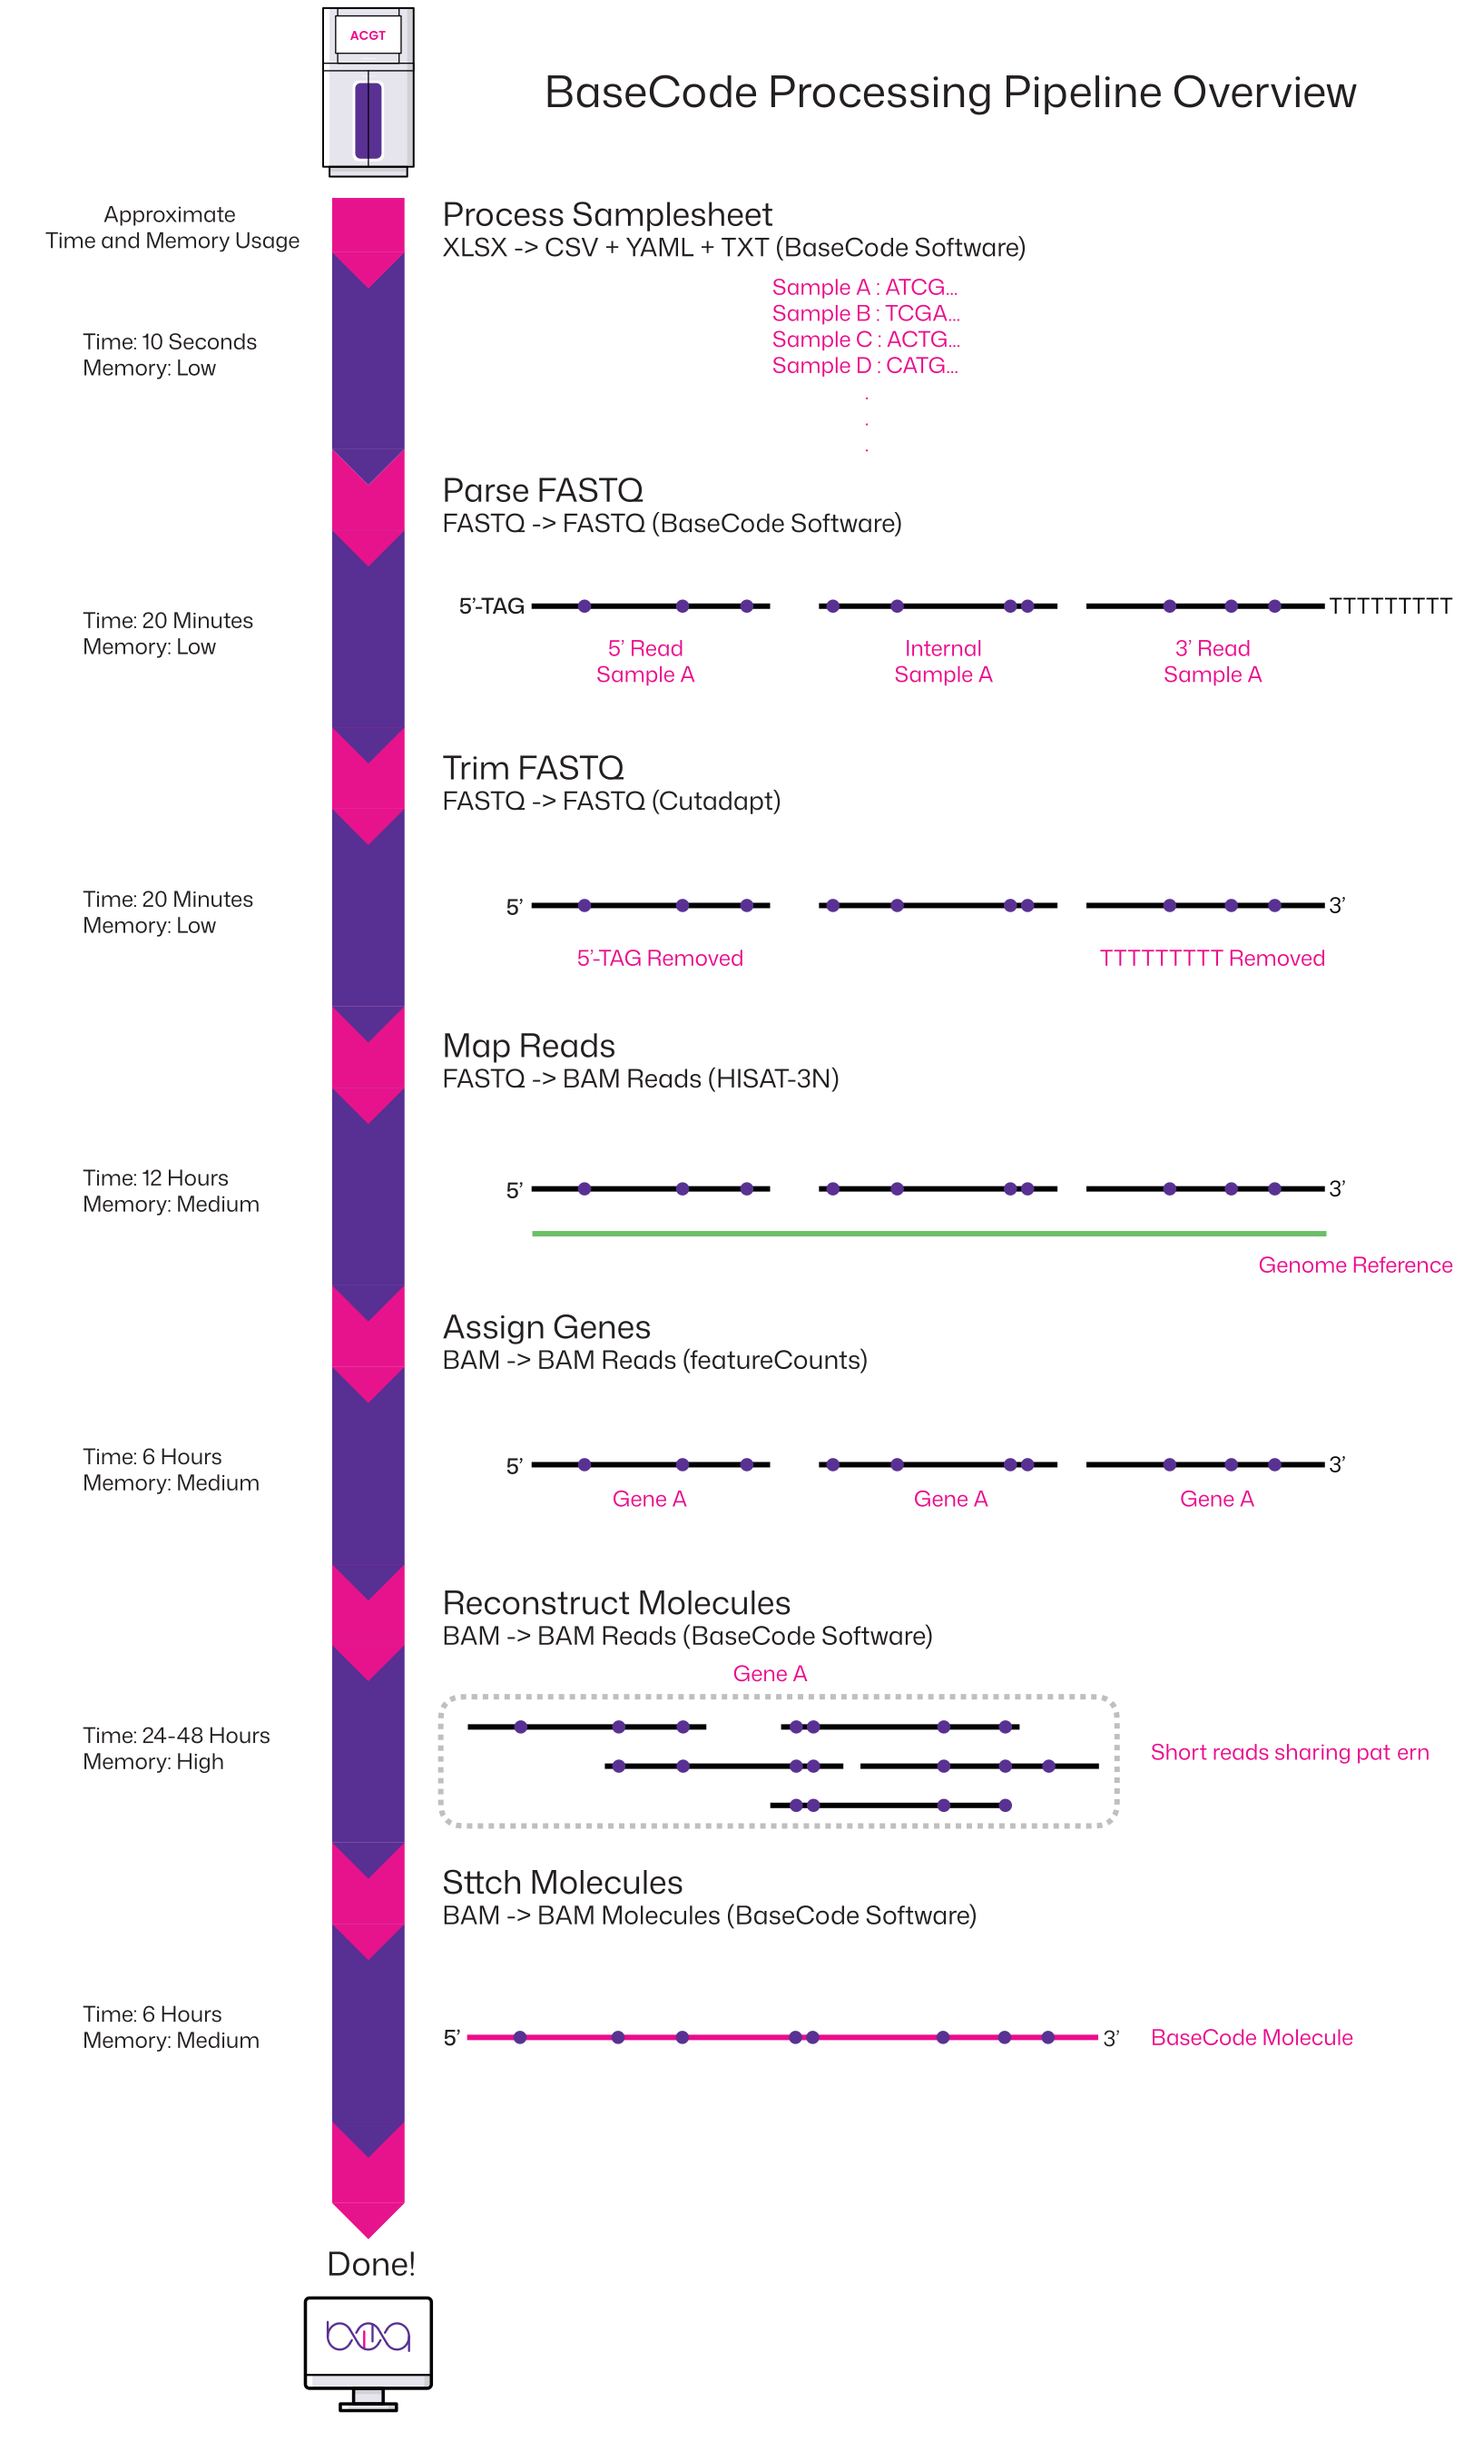
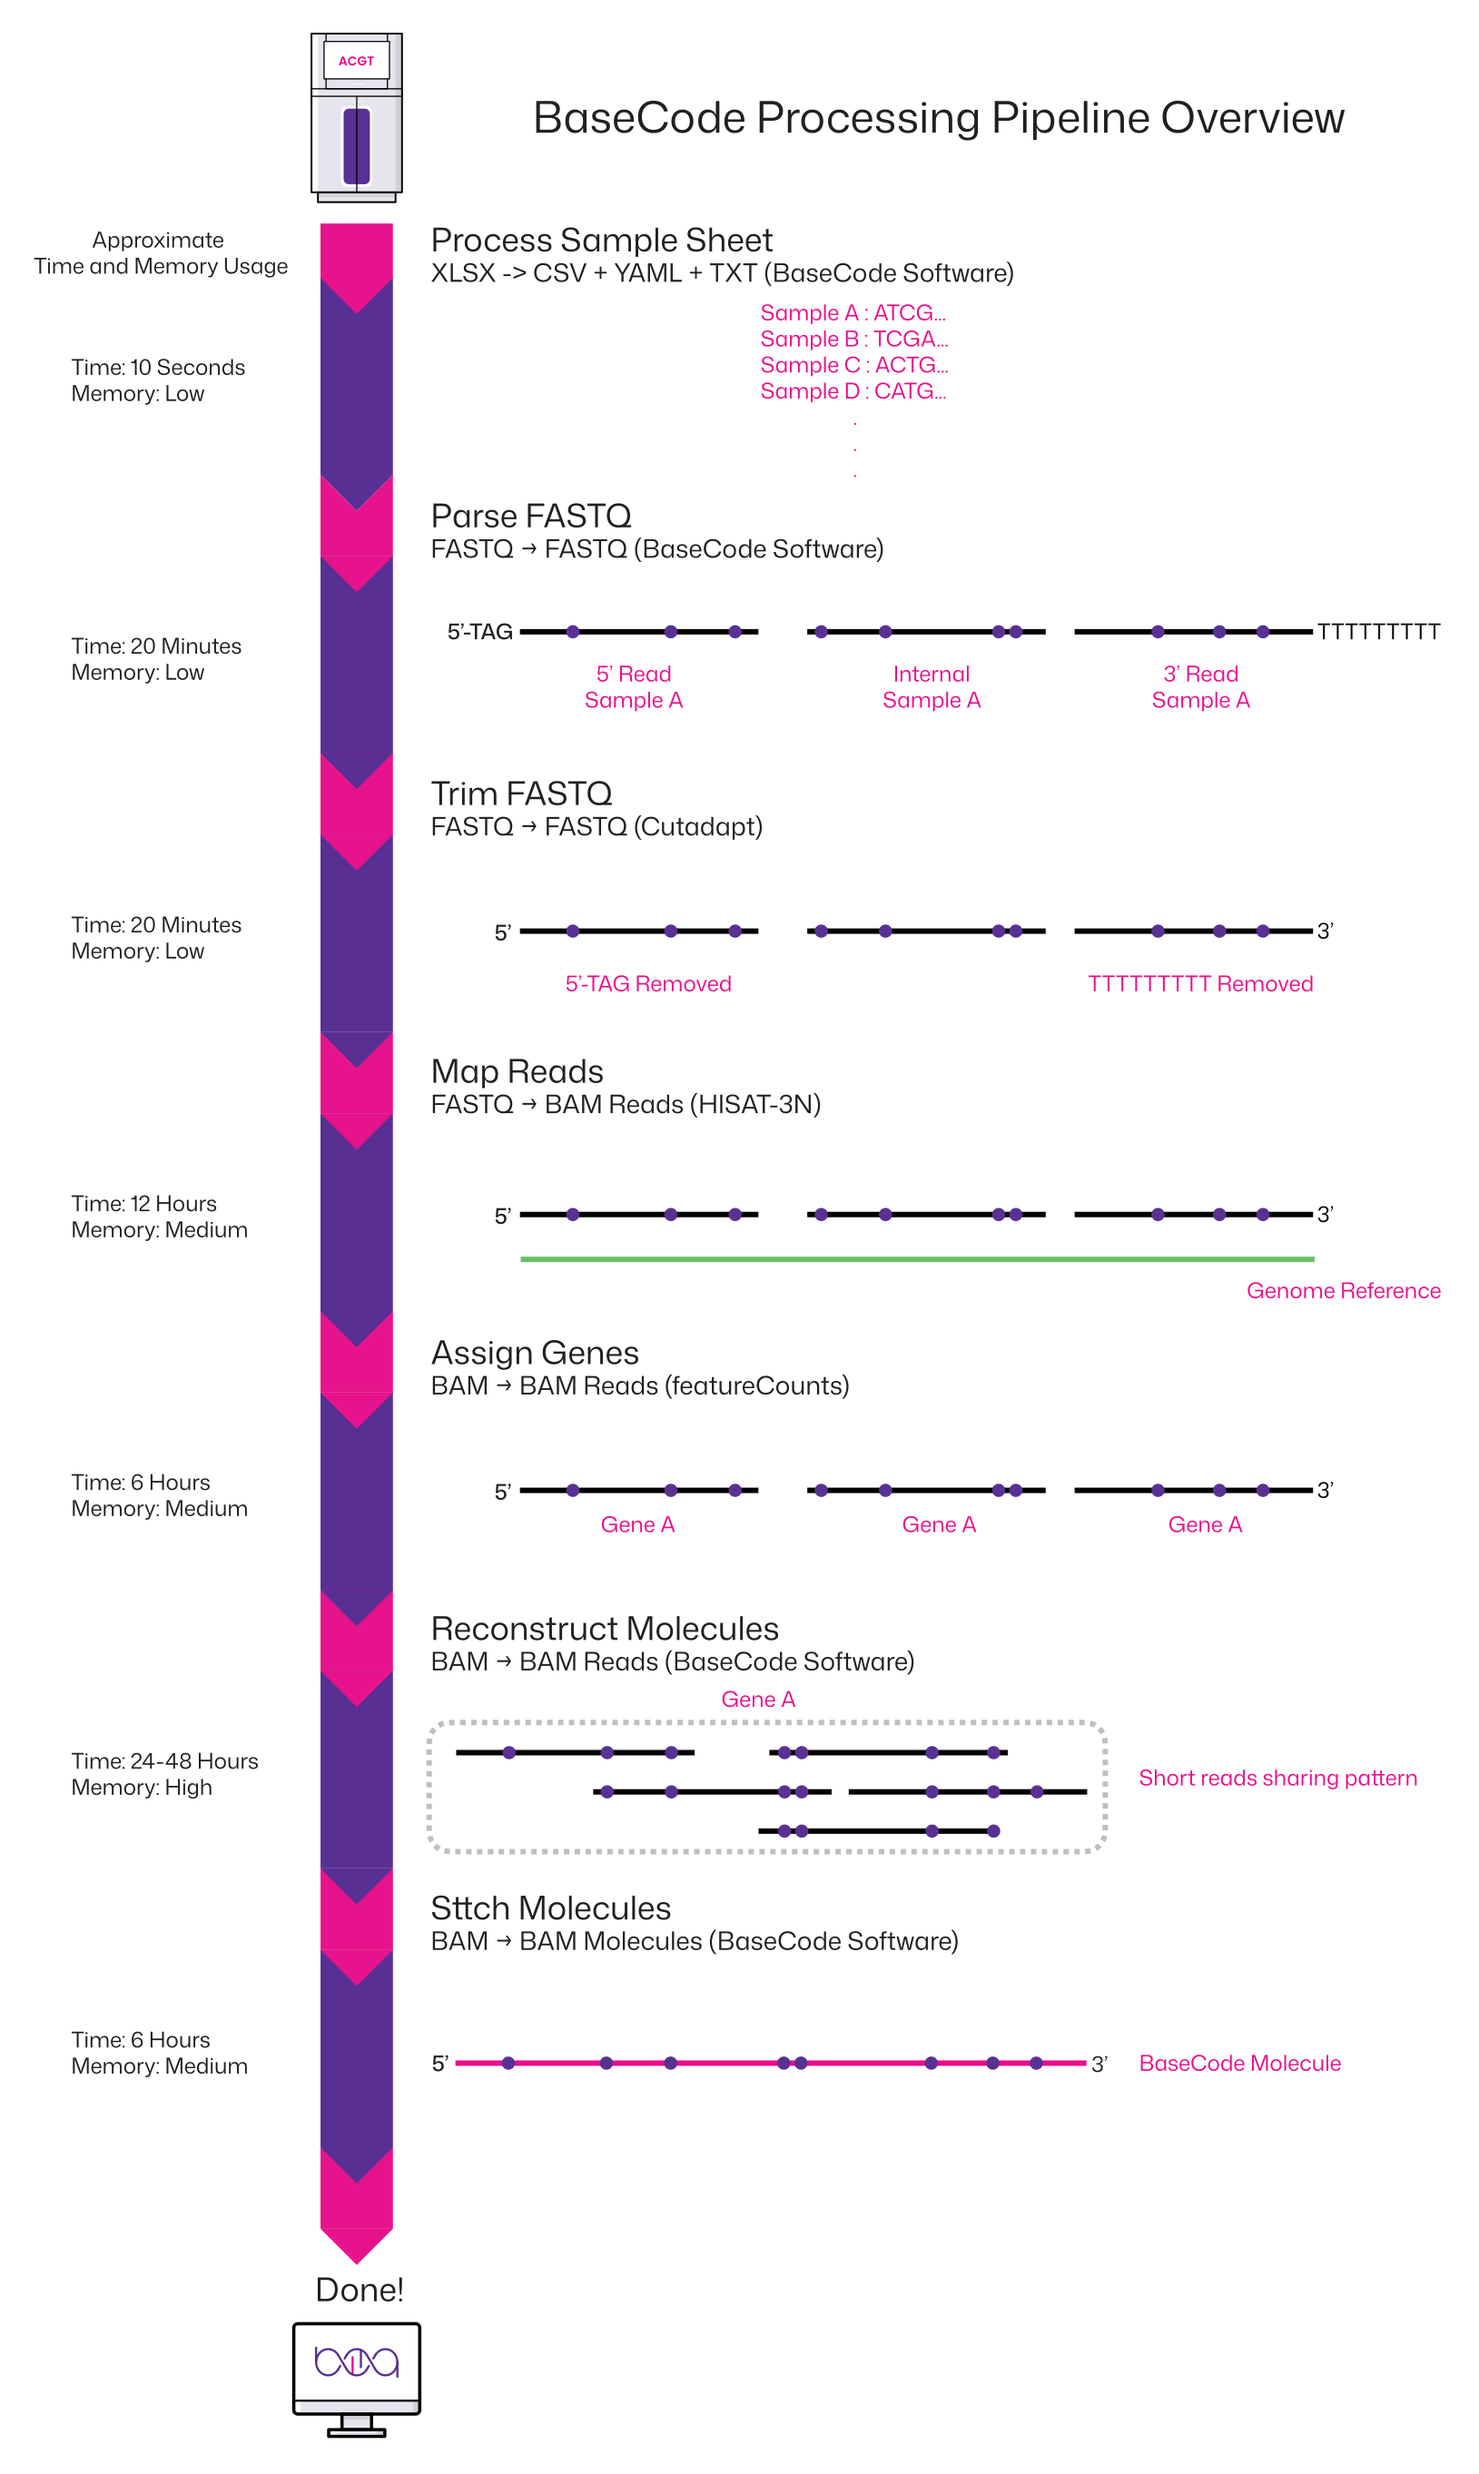
New visuals

diff --git a/docs/index.md b/docs/index.md
@@ -5,19 +5,32 @@ The final output of the BaseCode Processing Pipeline can be used for further dow
 
 ## <span style="color:#583092">BaseCode Processing Pipeline</span>
 The main steps of the BaseCode Processing Pipeline:
-1.	Process Sample Sheet
+1.	<b>Process Sample Sheet</b>
+
 The specified sample sheet is analyzed together with the input FASTQ files to determine which samples are to be processed and their associated sample indexes.
-2.	Parse FASTQ
+
+2.	<b>Parse FASTQ</b>
+
 The each read in the input FASTQ file is processed to determine read compartment (3', 5', or internal) and the sample of origin. Some trimming is performed.
-3.	Trim FASTQ
+
+3.	<b>Trim FASTQ</b>
+
 The reads in the processed FASTQ file are further trimmed for adapter sequenced and other undesired sequences.
-4.	Map Reads
+
+4.	<b>Map Reads</b>
+
 The reads in the trimmed FASTQ file are mapped to the specified reference genome.
-5.	Assign Genes
+
+5.	<b>Assign Genes</b>
+
 The mapped reads are assigned to a gene locus.
-6.	Reconstruct Molecules
+
+6.	<b>Reconstruct Molecules</b>
+
 The mapped and gene assigned reads are analyzed and grouped based on their molecule-specific mismatch pattern.
-7.	Stitch Molecules
+
+7.	<b>Stitch Molecules</b>
+
 Reads corresponding to the same molecules are combined to form a synthetic long read.
 
 <img src="images/BaseCode_Pipeline_Overview.png" width="600">
